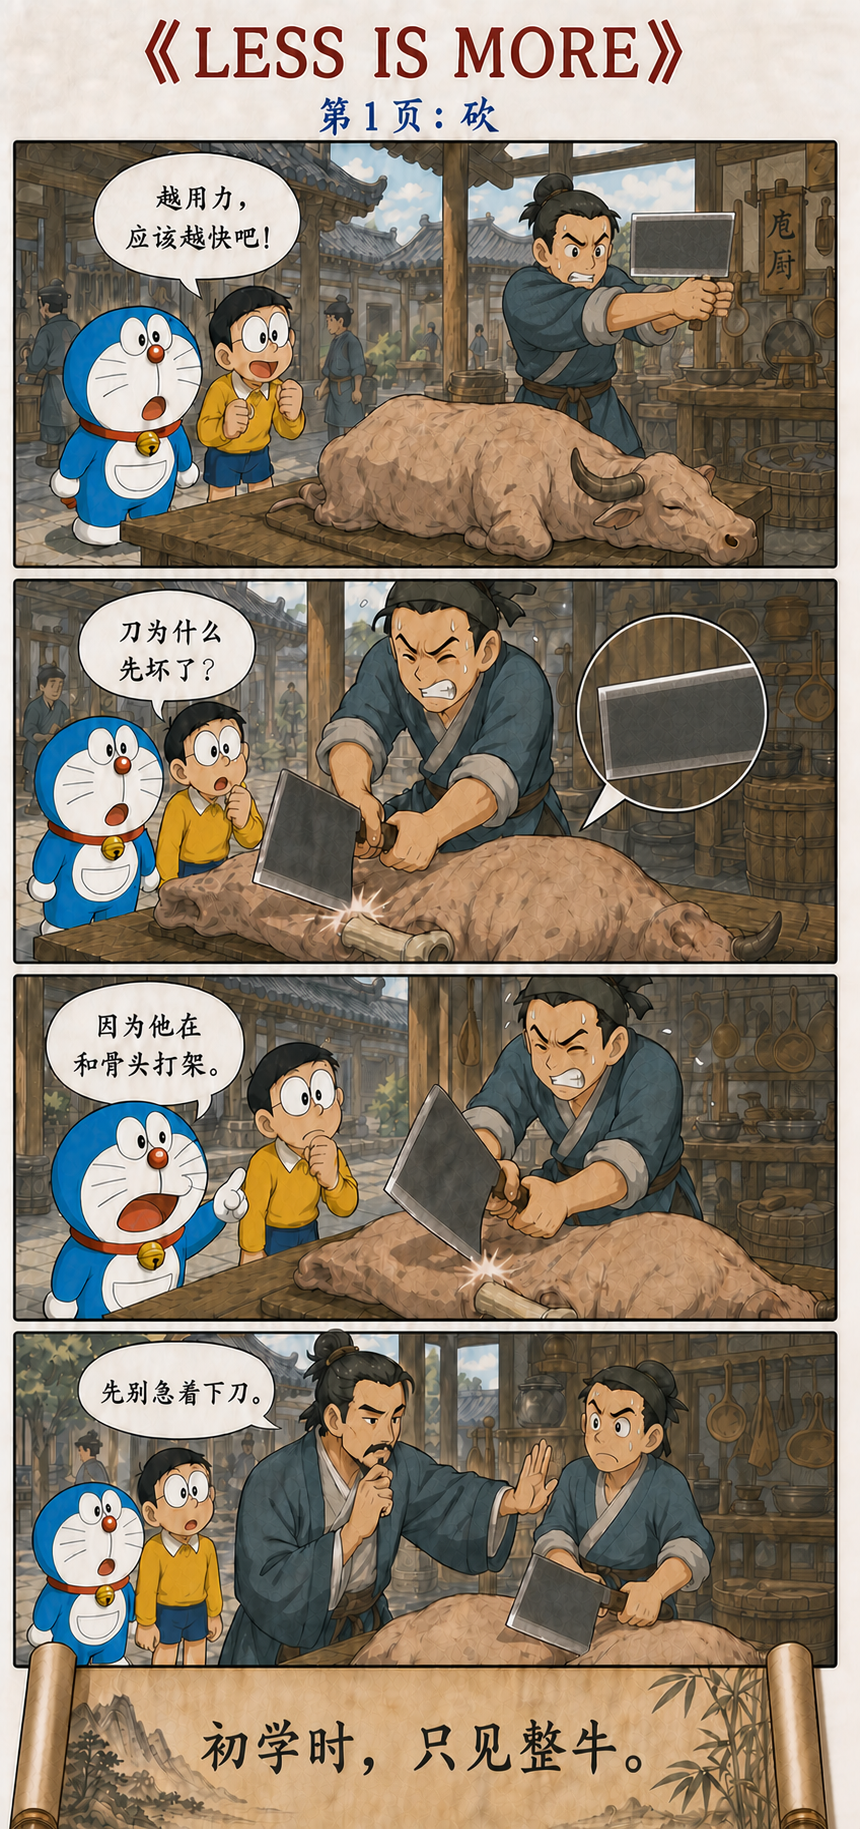
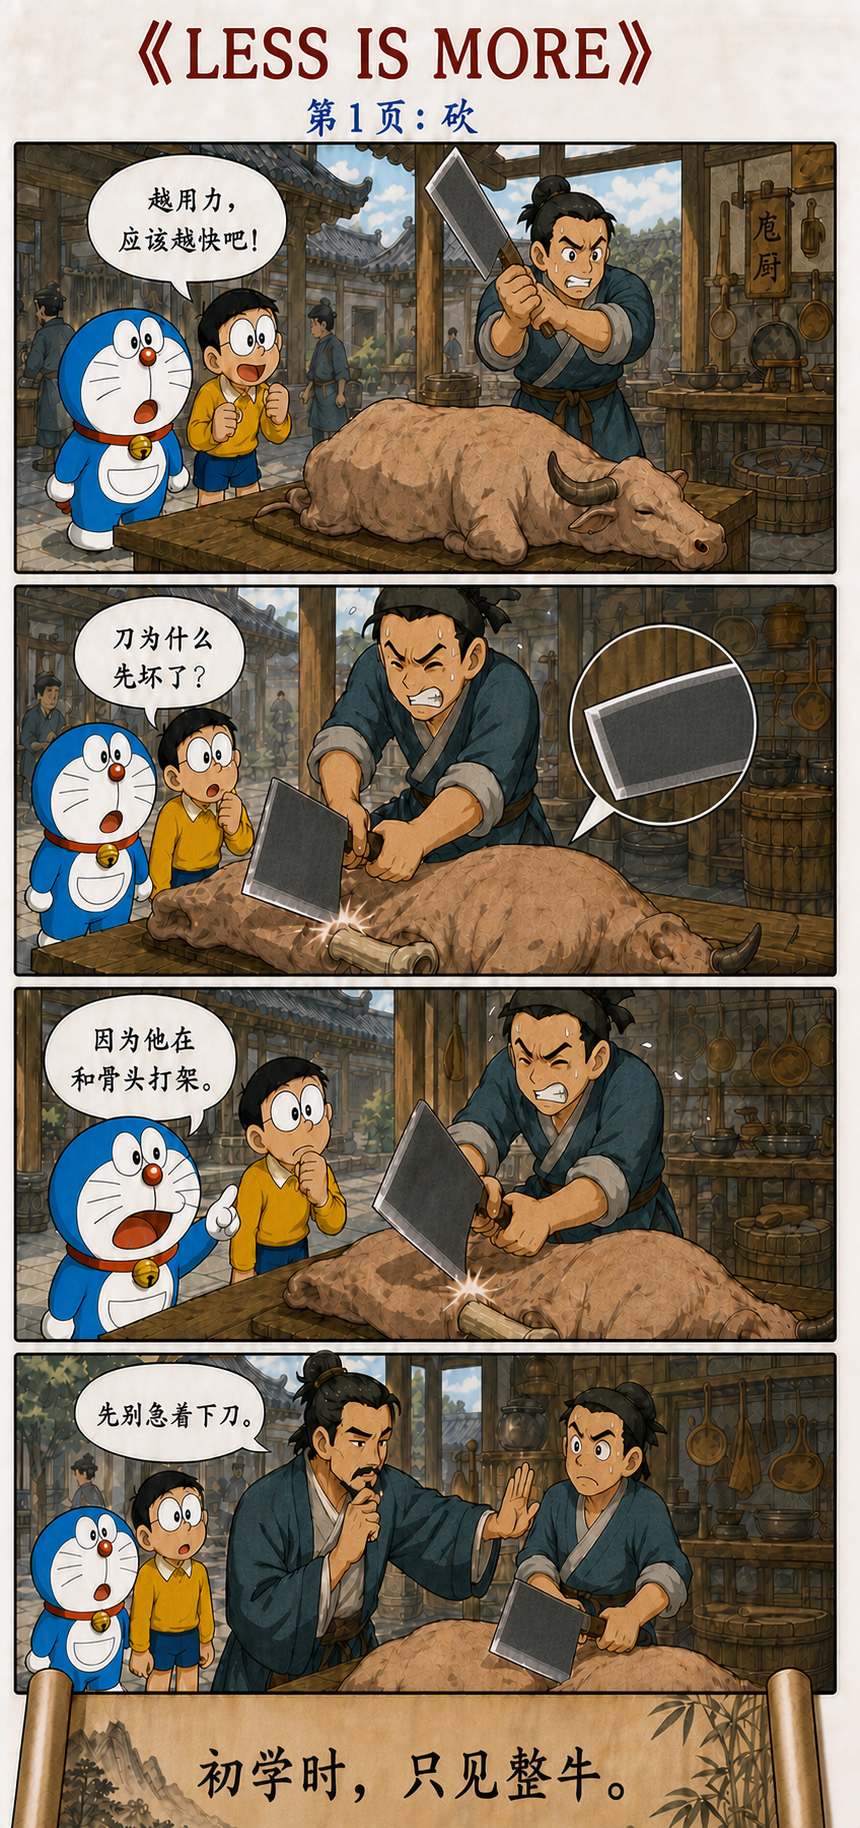
Point Chapter 48 cleaver upward left

diff --git a/projects/doraemon-laozhuang/chapter-48.html b/projects/doraemon-laozhuang/chapter-48.html
@@ -56,7 +56,7 @@
         <span class="section-kicker">三页图解</span>
         <h2>砍、看、顺：高手怎样减少多余动作</h2>
         <div class="comic-series">
-          <figure><img src="chapter-48-1-v2.png?v=20260828-5" width="860" height="1829" loading="eager" alt="哆啦A梦和大雄观看初学者用蛮力解牛，第一格厨刀刀柄在右、刀身向左且上沿为刀刃"><figcaption>第一图 · 砍：看不见结构，只能用力对抗。<span class="translation" lang="en">Panel One · Hack: unable to see the structure, the beginner can only fight it with force.</span></figcaption></figure>
+          <figure><img src="chapter-48-1-v2.png?v=20260828-6" width="860" height="1828" loading="eager" alt="哆啦A梦和大雄观看初学者用蛮力解牛，第一格菜刀从右下方向左上方举起"><figcaption>第一图 · 砍：看不见结构，只能用力对抗。<span class="translation" lang="en">Panel One · Hack: unable to see the structure, the beginner can only fight it with force.</span></figcaption></figure>
           <figure><img src="chapter-48-2.png" width="853" height="1844" loading="lazy" alt="庖丁向哆啦A梦和大雄展示牛的骨节、关节与空隙，说明高手看见的是结构"><figcaption>第二图 · 看：不是少学了，而是终于看懂了。<span class="translation" lang="en">Panel Two · See: the master has not learned less; he has finally learned to see.</span></figcaption></figure>
           <figure><img src="chapter-48-3.png" width="853" height="1844" loading="lazy" alt="庖丁顺着骨节空隙下刀，遇到复杂处先停下观察，十九年的刀仍然锋利"><figcaption>第三图 · 顺：少一点强求，多一点顺势。<span class="translation" lang="en">Panel Three · Follow: less forcing, more alignment with the way things already are.</span></figcaption></figure>
         </div>

diff --git a/projects/doraemon-laozhuang/index.html b/projects/doraemon-laozhuang/index.html
@@ -216,7 +216,7 @@
 
         <article class="chapter-tile">
           <a class="chapter-cover" href="chapter-48.html" aria-label="阅读《道德经》第四十八章：为学日益，为道日损">
-            <img src="chapter-48-1-v2-thumb.webp?v=20260828-5" width="360" height="766" alt="第四十八章漫画预览：从庖丁解牛理解为学日益与为道日损" loading="lazy" decoding="async">
+            <img src="chapter-48-1-v2-thumb.webp?v=20260828-6" width="360" height="766" alt="第四十八章漫画预览：从庖丁解牛理解为学日益与为道日损" loading="lazy" decoding="async">
             <span class="chapter-cover-count">▧ 三页</span>
           </a>
           <div class="chapter-tile-body">
